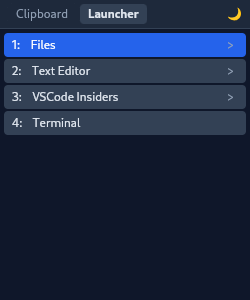
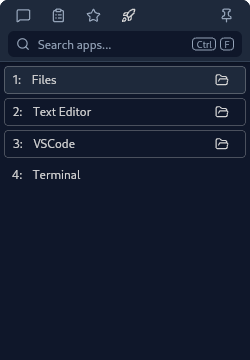
docs: Update README screenshots and header layout
- Crop screenshots to 60% height (250x600 -> 250x360)
- Remove screenshot_4.png (tray menu)
- Reorder header: icon above title
- Add horizontal rule after header
- Set screenshot display width to 200px

Ref: noppomario/uti-dev#31

diff --git a/README.md b/README.md
@@ -1,8 +1,7 @@
 <div align="center">
 
-# uti
-
 <img src="app/src-tauri/icons/icon.png" alt="uti icon" width="128" style="border-radius: 16px; box-shadow: 0 4px 8px rgba(0,0,0,0.3);">
+# uti
 
 [![Release](https://img.shields.io/github/v/release/noppomario/uti)](https://github.com/noppomario/uti/releases)
 [![CI](https://github.com/noppomario/uti/actions/workflows/ci.yml/badge.svg)](https://github.com/noppomario/uti/actions/workflows/ci.yml)
@@ -36,9 +35,9 @@
 - 🔄 **Auto-start & Self-update**: Optional auto-start on login, update via CLI or tray menu
 
 <p align="center">
-  <img src="docs/assets/screenshot_1.png" alt="Clipboard tab" width="32%">
-  <img src="docs/assets/screenshot_2.png" alt="Launcher tab" width="32%">
-  <img src="docs/assets/screenshot_3.png" alt="Jump list expanded" width="32%">
+  <img src="docs/assets/screenshot_1.png" alt="Clipboard tab" width="200">
+  <img src="docs/assets/screenshot_2.png" alt="Launcher tab" width="200">
+  <img src="docs/assets/screenshot_3.png" alt="Jump list expanded" width="200">
 </p>
 
 ## 📋 System Requirements
@@ -145,8 +144,6 @@ Right-click the tray icon for options:
 - **Check for Updates...**: Check for new versions
 - **GitHub**: Open project page
 - **Quit**: Exit application
-
-<img src="docs/assets/screenshot_4.png" alt="System tray menu" width="280">
 
 ### Updating
 
